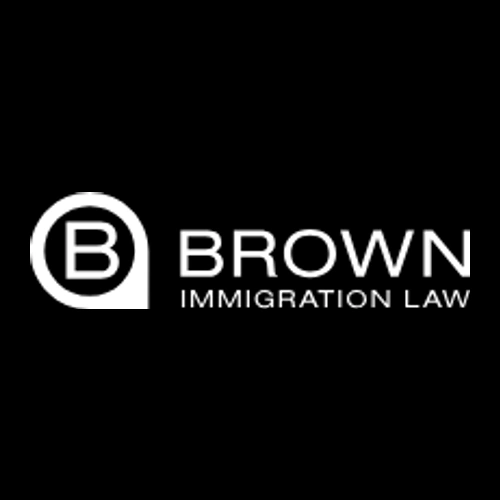
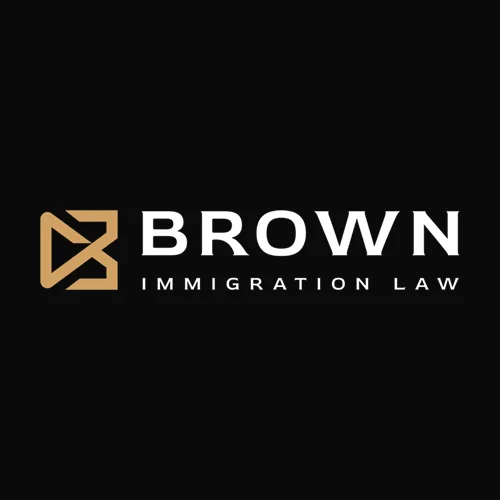
feat: add Novel Morrisville client and update Brown Immigration Law branding and links

Changed region(s): [[0.06, 0.36, 0.96, 0.63]]

diff --git a/app/partners/page.tsx b/app/partners/page.tsx
@@ -125,7 +125,7 @@ export default function PartnersPage() {
                                                                 src={partner.image}
                                                                 alt={partner.name}
                                                                 loading="lazy"
-                                                                className="w-full h-full object-contain"
+                                                                className="w-full h-full object-contain rounded-xl"
                                                             />
                                                         </div>
                                                     </Link>
@@ -135,7 +135,7 @@ export default function PartnersPage() {
                                                             src={partner.image}
                                                             alt={partner.name}
                                                             loading="lazy"
-                                                            className="w-full h-full object-contain"
+                                                            className="w-full h-full object-contain rounded-xl"
                                                         />
                                                     </div>
                                                 )}

diff --git a/lib/partners.ts b/lib/partners.ts
@@ -35,7 +35,8 @@ export const PARTNERS: Partner[] = [
     // On-Air Advertisers
     { name: "Autopark Honda", image: "/images/partners/Autopark Honda.jpg", link: "https://www.autoparkhonda.com/", category: 'On-Air Advertisers' },
     { name: "BMW", image: "/images/partners/BMW.jpg", link: "https://www.bmwofraleigh.com/", category: 'On-Air Advertisers' },
-    { name: "Brown Immigration Law", image: "/images/partners/brown-immigration-law.png", link: "https://brown-immigration.com/", category: 'On-Air Advertisers' },
+    { name: "Brown Immigration Law", image: "/images/partners/brown-immigration-law.png", link: "https://brownimmigrationlaw.com/", category: 'On-Air Advertisers' },
+    { name: "Novel Morrisville", image: "/images/partners/novel-morrisville.png", link: "https://www.novelmorrisville.com/", category: 'On-Air Advertisers' },
     { name: "Empowerly", image: "/images/partners/Empowerly.jpg", link: "https://start.empowerly.com/radio-nyra", category: 'On-Air Advertisers' },
     { name: "Khanna and Sons Jewelers", image: "/images/partners/Khanna and Sons Jewelers.jpg", link: "https://khannasonsjewelers.com/", category: 'On-Air Advertisers' },
     { name: "LeithCars", image: "/images/partners/LeithCars.jpg", link: "https://www.leithcars.com/", category: 'On-Air Advertisers' },

diff --git a/components/partners-marquee.tsx b/components/partners-marquee.tsx
@@ -33,12 +33,15 @@ export function PartnersMarquee({ partnersCount, partnersData }: PartnersMarquee
 
     const renderPartner = (partner: Partner, index: number) => {
         const content = (
-            <div className="flex-shrink-0 w-32 h-20 mx-4 border border-border/30 bg-white/50 backdrop-blur-sm p-2 flex items-center justify-center hover:border-primary/50 transition-all duration-300 snap-center">
+            <div 
+                title={partner.name}
+                className="flex-shrink-0 w-32 h-20 mx-4 border border-border/30 bg-white/70 backdrop-blur-sm p-2.5 flex items-center justify-center hover:border-primary/50 hover:shadow-md rounded-xl overflow-hidden transition-all duration-300 snap-center"
+            >
                 <img
                     src={partner.image}
                     alt={partner.name}
                     loading="lazy"
-                    className="max-w-full max-h-full object-contain transition-all duration-500"
+                    className="max-w-full max-h-full object-contain rounded-lg transition-all duration-500"
                 />
             </div>
         );

diff --git a/components/nyra-chat.tsx b/components/nyra-chat.tsx
@@ -139,8 +139,8 @@ export function NyraChat() {
         response: "Tune in on:\n- Hindi: Raleigh-Durham 99.9FM-HD4, Atlanta 107.5FM-HD3, and more!\n- Telugu: Raleigh-Durham 99.9FM-HD3 (Launched July 2025)."
       },
       {
-        keywords: ["partner", "apna bazar", "spices hut", "sangam", "bombay central"],
-        response: "We partner with amazing local businesses like Apna Bazar, Spices Hut, Sangam Mart, and Bombay Central. Check our Partners page for the full list!"
+        keywords: ["partner", "partners", "client", "clients", "apna bazar", "spices hut", "sangam", "bombay central", "brown immigration", "novel morrisville"],
+        response: "We partner with amazing businesses and community sponsors including Brown Immigration Law, Novel Morrisville, BMW, Apna Bazar, Spices Hut, and many more. Check our Partners page (/partners) for the full list!"
       },
       {
         keywords: ["hello", "hi", "namaste", "hey", "who are you", "what can you do"],
